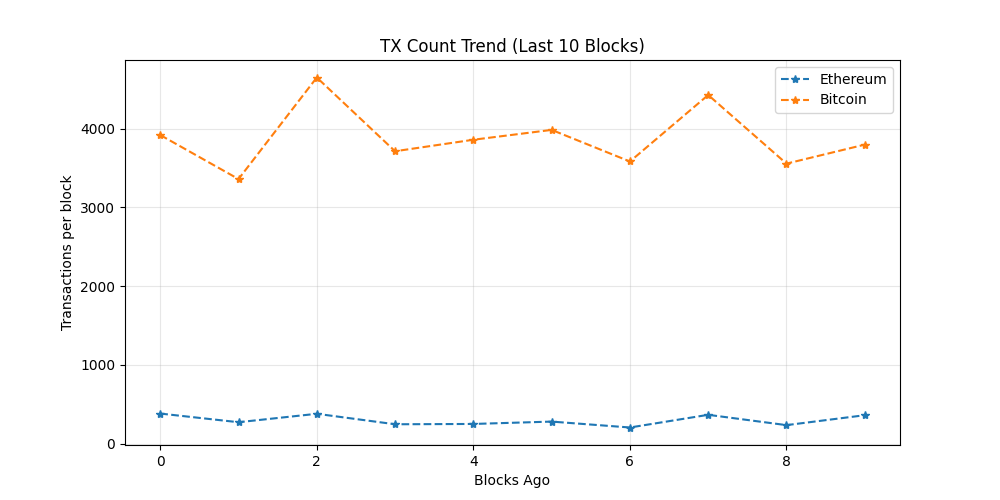
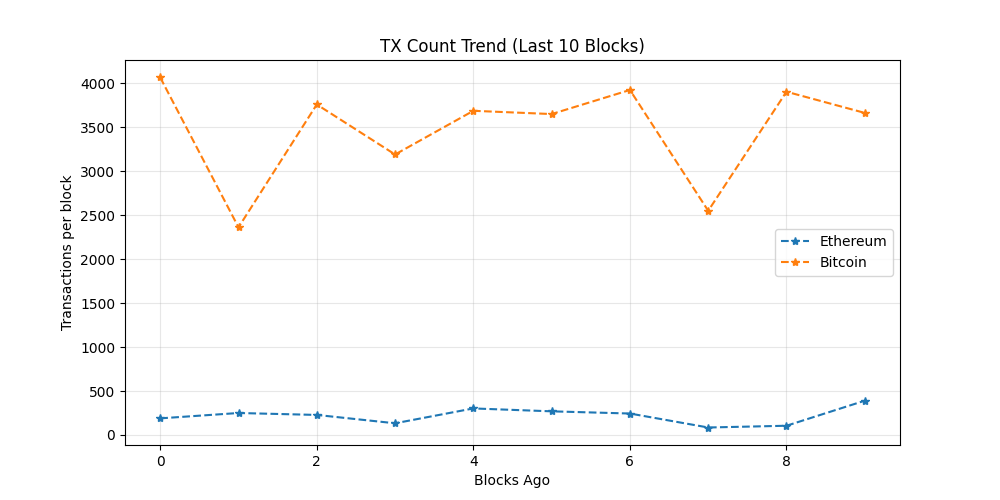
chore: update on-chain dashboard

diff --git a/README.md b/README.md
@@ -19,7 +19,7 @@ The README itself acts as the dashboard and is regenerated automatically on a 6 
 demonstrating a production-style, infrastructure-focused observability workflow rather
 than a traditional UI-driven approach.
 
-_Last updated: 2026-07-31 14:32 UTC_
+_Last updated: 2026-07-31 19:51 UTC_
 
 ## API Usage (GetBlock.io)
 - Calls used: **24**
@@ -27,8 +27,8 @@ _Last updated: 2026-07-31 14:32 UTC_
 ## Network Metrics
 | Chain | Block Height | TX Count | TPS (10 blk avg) | Block Util | Avg Fee |
 |------|-------------|----------|------------------|------------|---------|
-| Ethereum | 25653461 | 362 | 30.17 | 59.33% | 1.9 Gwei |
-| Bitcoin | 960412 | 3796 | 9.15 | 99.79% | N/A |
+| Ethereum | 25655046 | 390 | 32.5 | 87.2% | 0.3 Gwei |
+| Bitcoin | 960455 | 3665 | 10.15 | 99.89% | N/A |
 
 ## Visuals
 ### Transactions Trend
@@ -43,11 +43,11 @@ _Last updated: 2026-07-31 14:32 UTC_
 ## Whale Alerts (latest block)
 - Transaction hashes are truncated for readability.
 - Full hashes are available in `dashboards/metrics.json`
-- Bitcoin | 174.05 BTC | `85acb847ade5…`
-- Bitcoin | 487.91 BTC | `77a5cb348ecc…`
-- Bitcoin | 125.0 BTC | `7e7a5ab50460…`
-- Bitcoin | 1256.65 BTC | `c498f02b8dbb…`
-- Bitcoin | 242.3 BTC | `69bbb86b488e…`
+- Bitcoin | 507.95 BTC | `1a996a6dea64…`
+- Bitcoin | 102.86 BTC | `08c6f22e6dbe…`
+- Bitcoin | 373.56 BTC | `9356479e11a3…`
+- Bitcoin | 102.48 BTC | `6f7dcf5aa012…`
+- Bitcoin | 199.05 BTC | `e5603577170c…`
 
 ## Run locally
 
